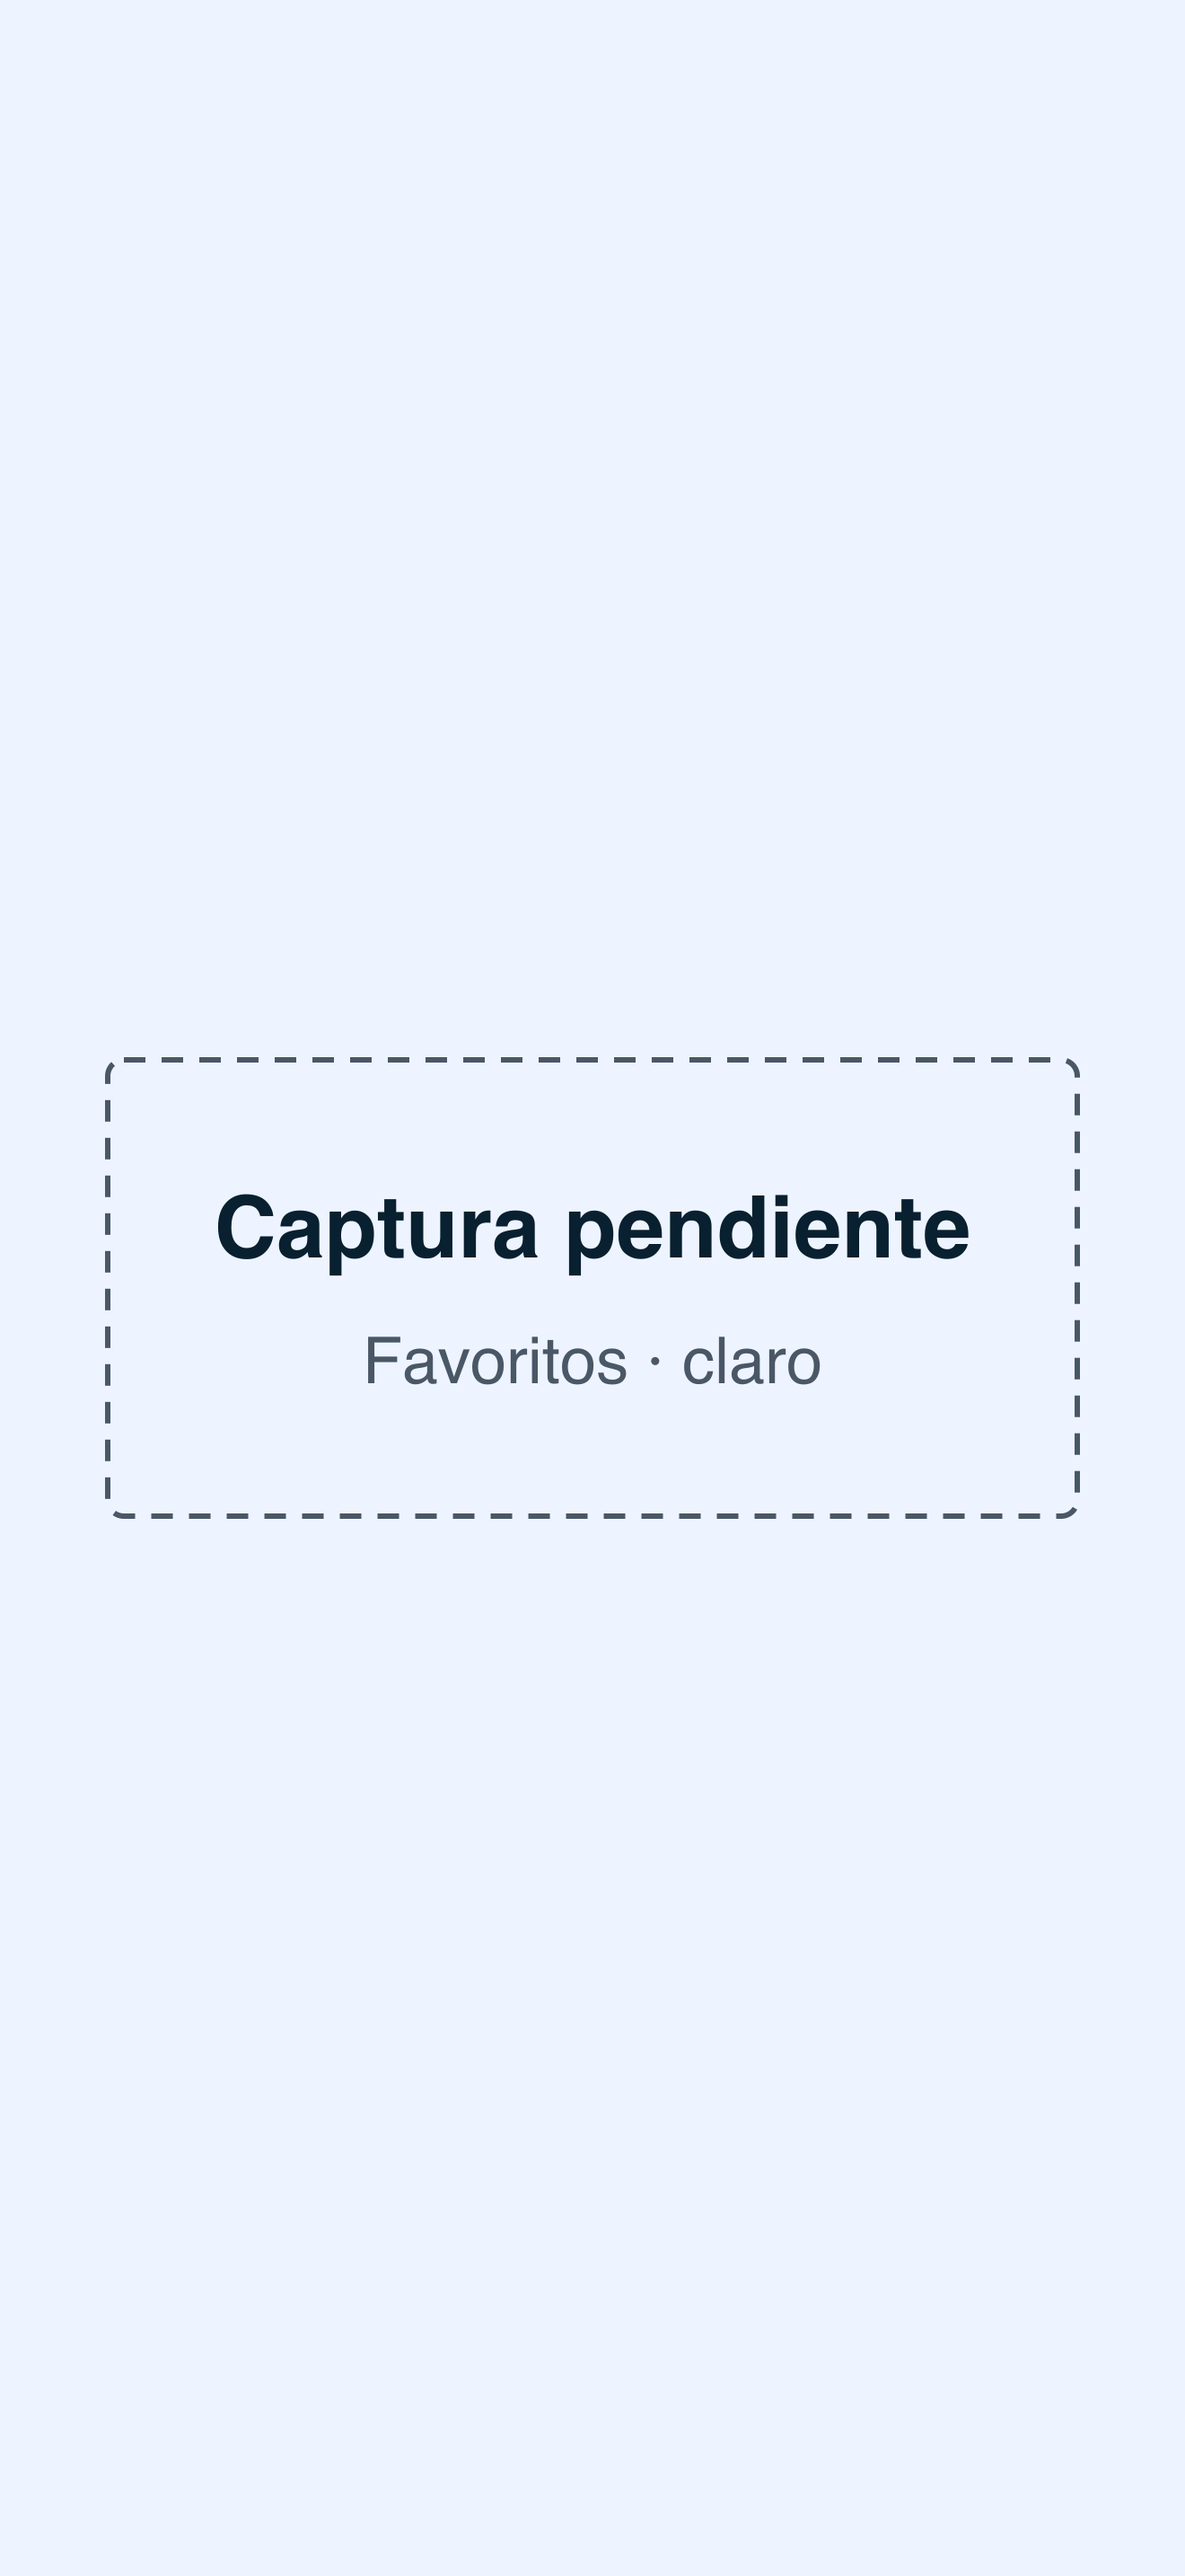
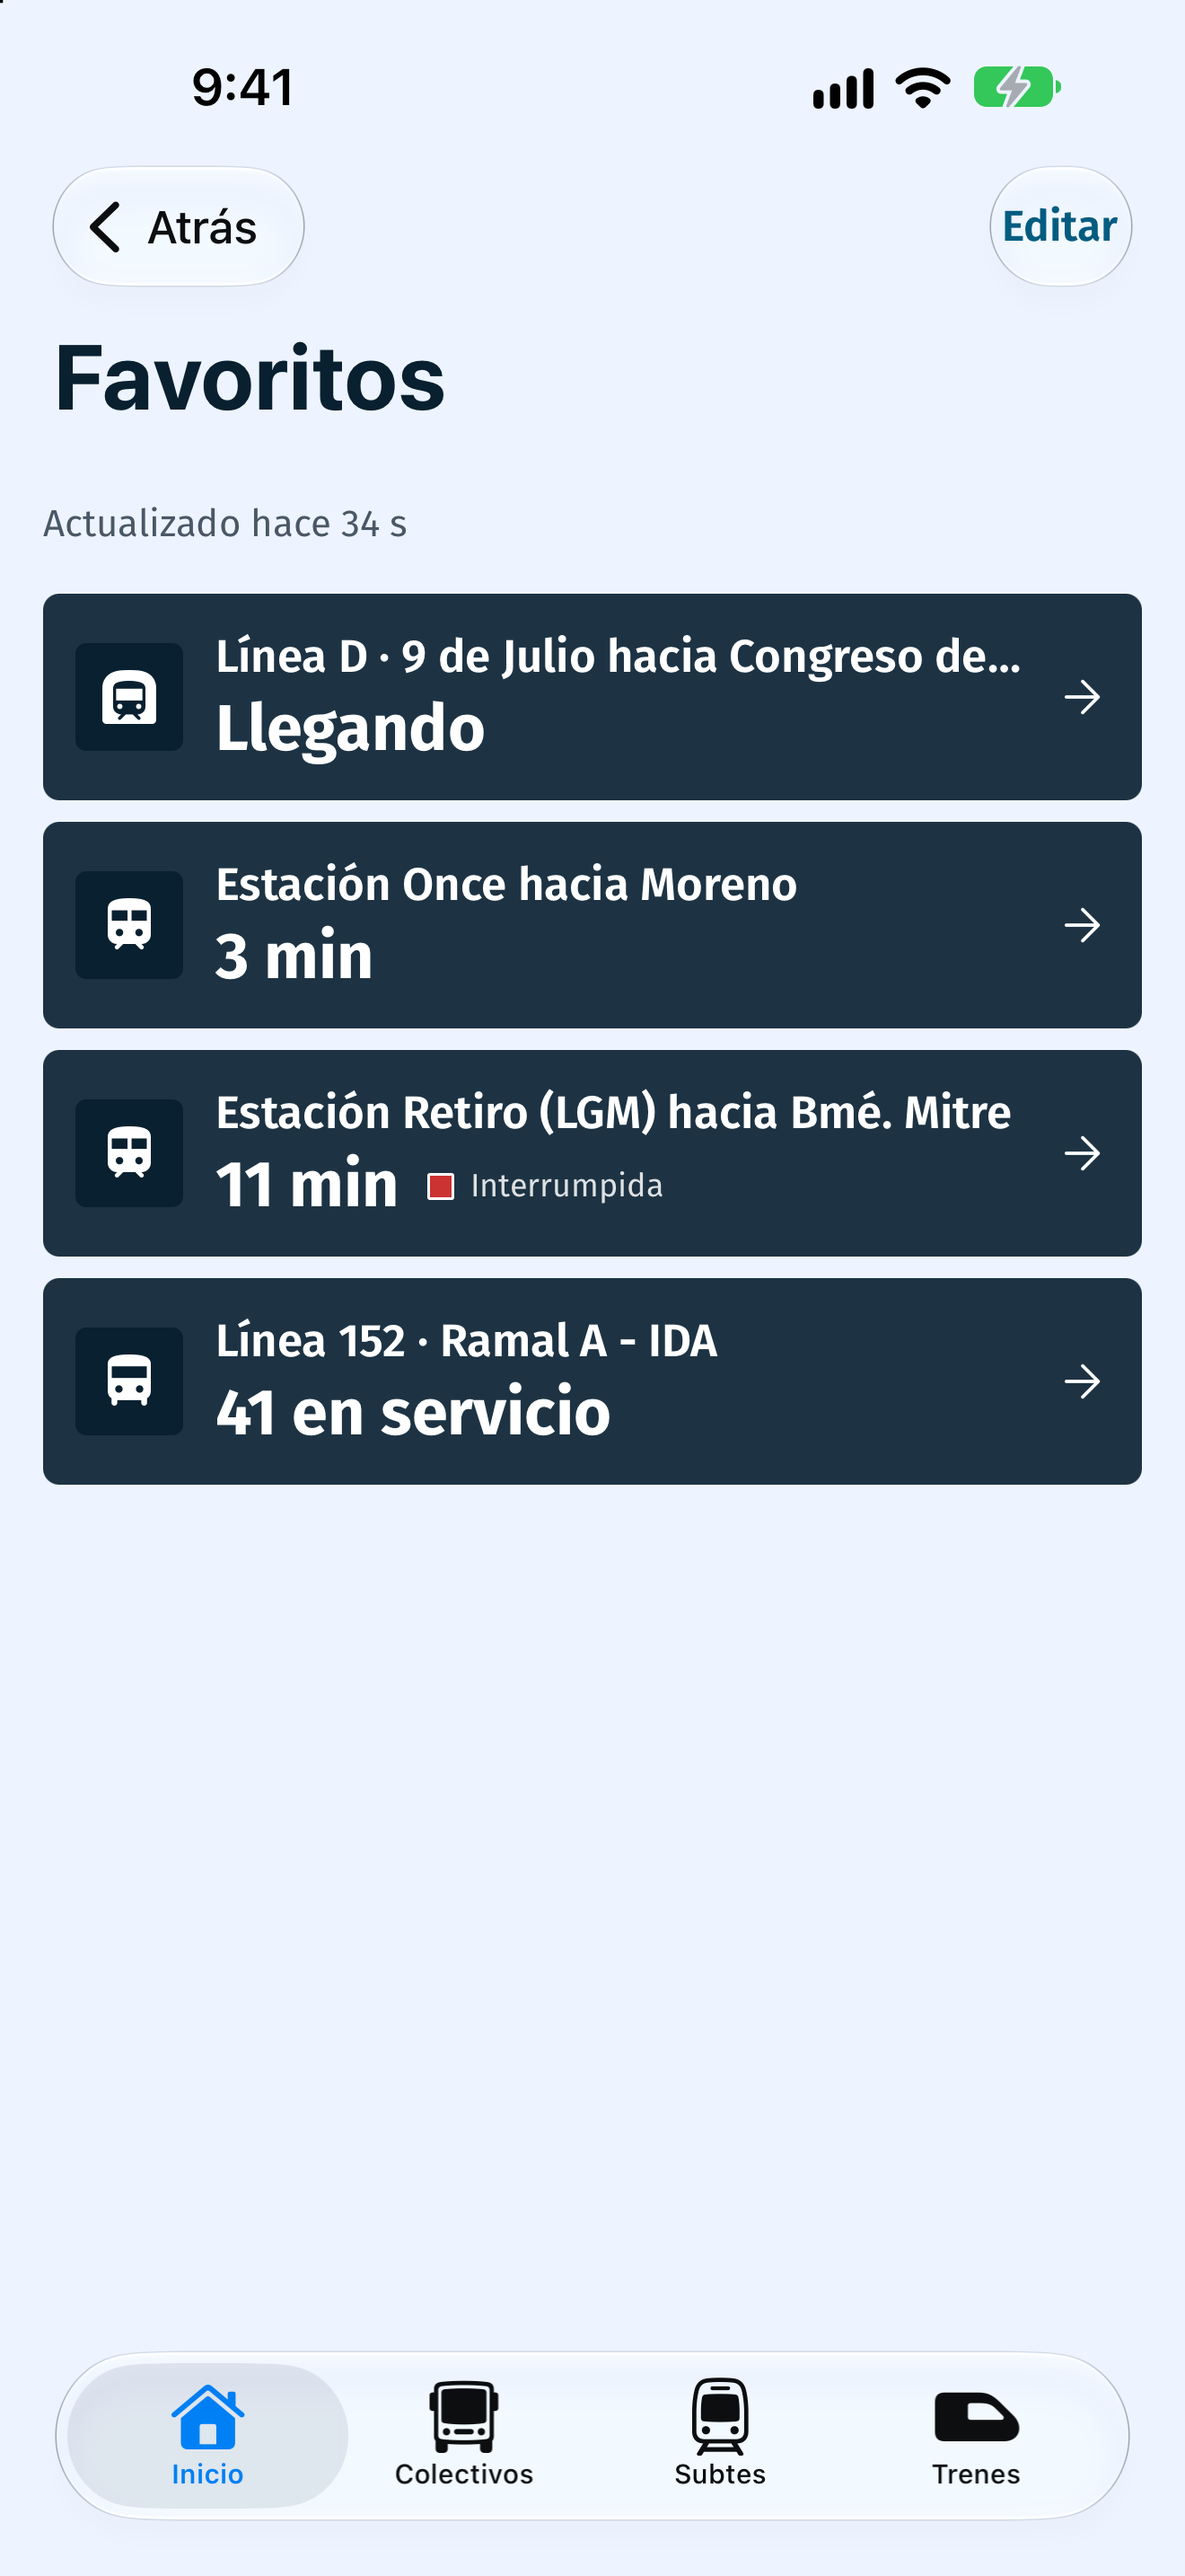
feat(site, store): capturas reales de la app en la landing y para la ficha de App Store
Diez capturas de 1320x2868 (Inicio, subte, colectivos, trenes y Favoritos, en
claro y oscuro) del build preview-simulator contra api.transportate.ar.
Reemplazan los marcadores de la landing; las copias de design/store/ios/6.9
van sin canal alfa. Procedimiento en docs/12-publicacion.md §7.

diff --git a/docs/12-publicacion.md b/docs/12-publicacion.md
@@ -225,6 +225,14 @@ The subway arrival forecast may come unchanged from the source; when that happen
 - **Datos en pantalla:** reales y del momento. Evitá capturas con un servicio caído o con «Dato de hace…» salvo que esa sea la pantalla.
 - **Destino en el repo:** `design/store/ios/6.9/` (nombres tipo `01-inicio-claro.png`). Las capturas son derivadas de la app, no hay nada que atribuir más que la propia app.
 
+**Hechas el 2026-11-11** (build `preview-simulator` `8546c879`, contra `https://api.transportate.ar`): Inicio, Línea D de subte, línea 152 de colectivos en el mapa, estación Once de trenes y Favoritos, cada una en claro y oscuro (10 archivos, `01-inicio-claro.png` … `05-favoritos-oscuro.png`). La landing usa las mismas en `site/src/assets/capturas/`. Datos reales de ese momento: Inicio muestra «Línea A interrumpida», y colectivos en claro, el aviso «Dato de hace 1 min». Lo que se aprendió:
+
+- **Simulador:** uno propio, «Transportate capturas» (iPhone 18 Pro Max, iOS 27.0). El primer arranque tarda varios minutos (migración de datos) y `simctl bootstatus` termina en «Data Migration Failed» aunque después funcione; **no lo apagues en el medio**.
+- **Sin esquinas ni isla:** `xcrun simctl io <udid> screenshot --mask=ignored archivo.png` da el rectángulo completo de 1320×2868.
+- **Sin canal alfa:** `simctl` escribe PNG con alfa y App Store Connect los rechaza. Las copias de `design/store/ios/6.9/` se reescribieron opacas en sRGB (CoreGraphics, `CGImageAlphaInfo.noneSkipLast`). Comprobalo con `sips -g hasAlpha`.
+- **Favoritos:** `simctl` no toca la pantalla. Los favoritos se marcan a mano en el simulador, abierto desde **Device Hub** de Xcode 27 (`/Applications/Xcode.app/Contents/Applications/DeviceHub.app`; ya no hay `Simulator.app`).
+- **Dato fresco:** con la pantalla quieta, el simulador mostró el dato envejeciendo («hace 2 min»). Navegar a otra pantalla y volver por deep link lo refresca; la captura se saca unos 10 s después. No se verificó si en el simulador el refresco automático queda en pausa; en el iPhone (ola E) los datos se actualizan.
+
 ## 8. Gate de dominio y transición
 
 > **Estado (2026-11-11): gate resuelto.** El dominio es `transportate.ar`; el proxy responde en `https://api.transportate.ar` y `eas.json` ya apunta ahí (pasos 1 a 4 de abajo). Falta el build nuevo, el sitio en el dominio, las URLs de la ficha y de App Privacy, y retirar `workers.dev`. Lo que sigue se conserva como registro de la decisión; la medición de ese día mostró que la Cache API también guardaba en `workers.dev` ([`10-deploy.md`](10-deploy.md) §4).

diff --git a/docs/bitacora.md b/docs/bitacora.md
@@ -550,5 +550,11 @@ Comprobado de paso: el acuerdo de apps gratuitas está **activo** (29-oct-2026 a
 - Cambios pedidos por el usuario directo a `senior-dev`: subtítulo del cartel («en tiempo real y sin cuenta ni inicios de sesión») y botón de tema claro/oscuro con claro por defecto (la elección se guarda en `localStorage`). El usuario decidió **no** tocar la política de privacidad por eso. La descripción para buscadores se alineó con el subtítulo (commit `d59118c`).
 - La landing **todavía no está desplegada** en el dominio: faltan las capturas reales y el visto bueno del usuario.
 
-**Sigue:** redeploy del proxy con el arreglo de headers; capturas reales (ficha y landing); despliegue del sitio en el dominio; build nuevo contra `api.transportate.ar`; URLs de la ficha y de App Privacy; y la ola F (datos de contacto del revisor, copyright y envío a revisión).
+### Capturas reales (coordinador + usuario, 2026-11-11)
+
+- El usuario redesplegó el proxy con el arreglo de headers: el manifiesto responde `max-age=300` en cada pedido.
+- Build `preview-simulator` (`8546c879`) contra `https://api.transportate.ar`, instalado en un simulador nuevo «Transportate capturas» (iPhone 18 Pro Max). El simulador que ya existía falló en su migración inicial y quedó apagado.
+- Diez capturas de 1320×2868 (Inicio, subte, colectivos, trenes y Favoritos, en claro y oscuro) en `design/store/ios/6.9/` (sin canal alfa) y en `site/src/assets/capturas/` (reemplazan los marcadores de la landing). El usuario marcó los favoritos a mano desde Device Hub. Procedimiento y tropiezos, en [`12-publicacion.md`](12-publicacion.md) §7.
+
+**Sigue:** visto bueno del usuario a la landing y despliegue del sitio en el dominio; build nuevo contra `api.transportate.ar`; URLs de la ficha y de App Privacy; y la ola F (datos de contacto del revisor, copyright y envío a revisión).
 

diff --git a/site/README.md b/site/README.md
@@ -125,7 +125,7 @@ Es `run deploy` y no `deploy`: `pnpm deploy` es un comando propio de pnpm. Ver [
 
 ## Reemplazar las capturas
 
-Las capturas viven en `src/assets/capturas/` con estos nombres exactos, en 1320×2868 (simulador iPhone 18 Pro Max): `inicio`, `subte`, `colectivos`, `trenes` y `favoritos`, cada una en `-claro.png` y `-oscuro.png`. Hoy son **marcadores** («Captura pendiente»). Para cambiarlas, pisá el archivo con el mismo nombre y volvé a construir: `Captura.astro` genera AVIF y WebP en 300, 450, 660 y 990 px para cada tema, en dos `<picture>` (`.captura--claro` y `.captura--oscuro`); el CSS muestra el del tema activo. La oscura siempre carga diferida, así que en claro no se descarga. La clara de Inicio (cartel) carga con prioridad alta; el resto, diferida. El marco del teléfono es CSS (`.telefono`): no hace falta recortar las capturas.
+Las capturas viven en `src/assets/capturas/` con estos nombres exactos, en 1320×2868 (simulador iPhone 18 Pro Max): `inicio`, `subte`, `colectivos`, `trenes` y `favoritos`, cada una en `-claro.png` y `-oscuro.png`. Desde el 2026-11-11 son capturas reales del build `preview-simulator` (las mismas de la ficha, `design/store/ios/6.9/`; procedimiento en [`docs/12-publicacion.md`](../docs/12-publicacion.md) §7). Para cambiarlas, pisá el archivo con el mismo nombre y volvé a construir: `Captura.astro` genera AVIF y WebP en 300, 450, 660 y 990 px para cada tema, en dos `<picture>` (`.captura--claro` y `.captura--oscuro`); el CSS muestra el del tema activo. La oscura siempre carga diferida, así que en claro no se descarga. La clara de Inicio (cartel) carga con prioridad alta; el resto, diferida. El marco del teléfono es CSS (`.telefono`): no hace falta recortar las capturas.
 
 ## Licencias
 
